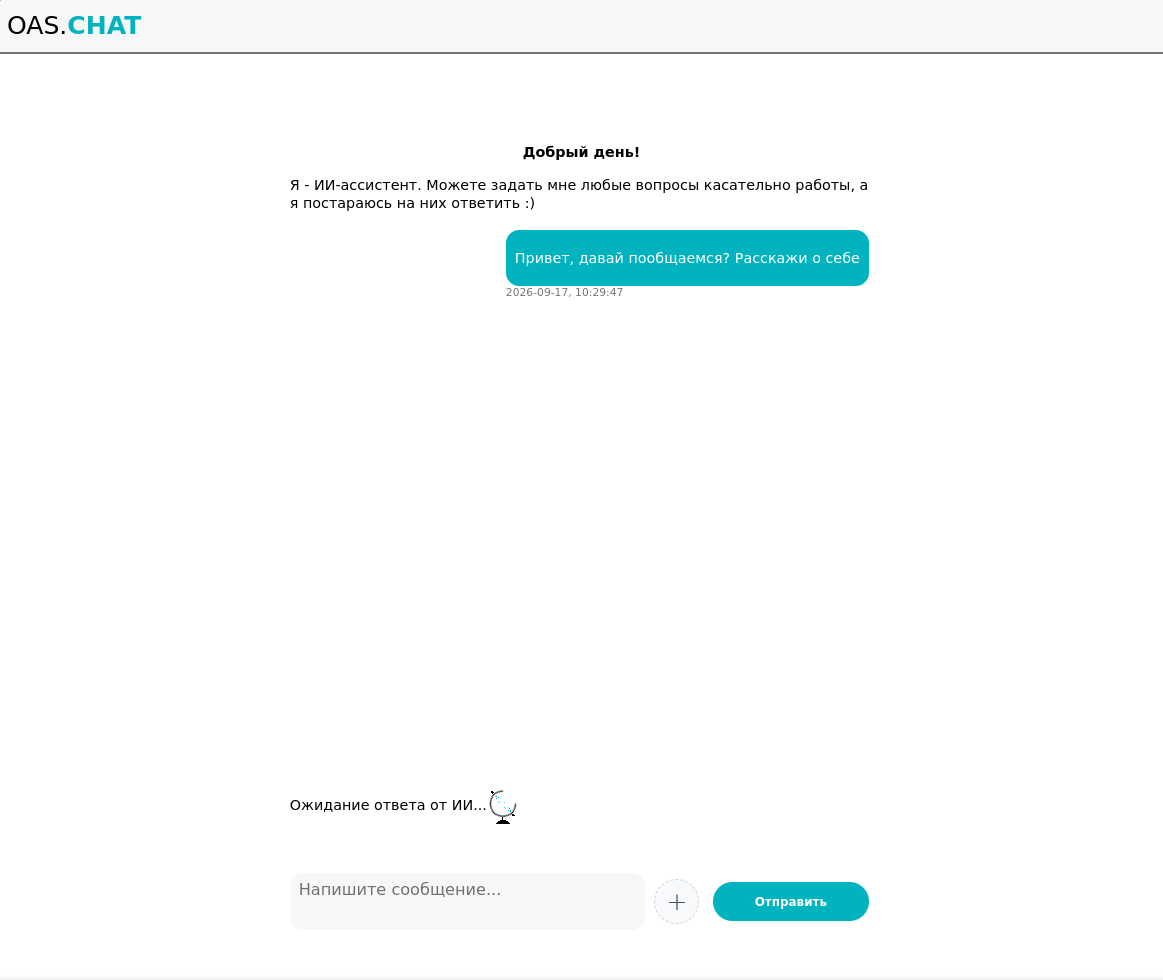
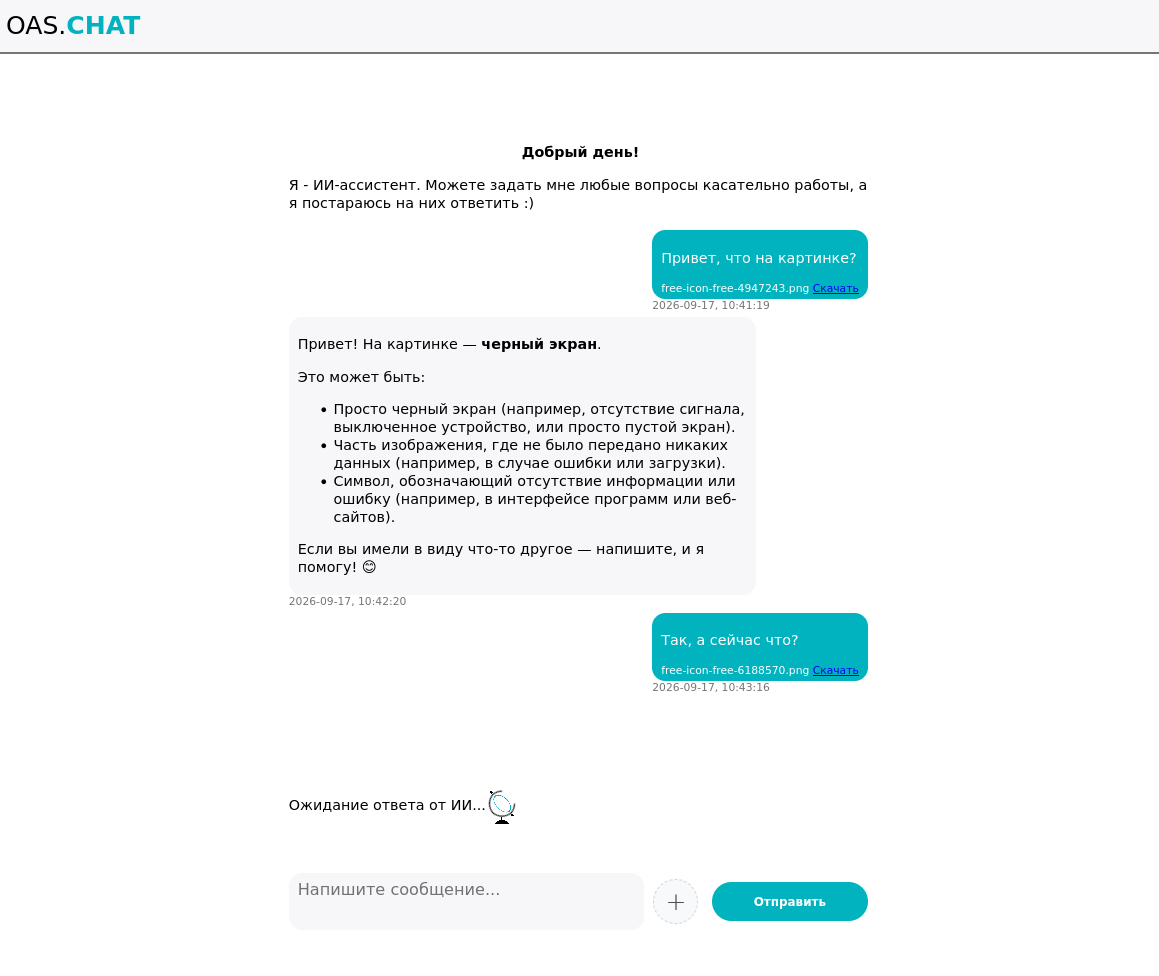
обновил readme.md

diff --git a/README.md b/README.md
@@ -1,3 +1,142 @@
 # PocketChat
 > Простой клиент для интеграции с ИИ
 ![alt text](image.png)
+
+# Возможности
+## Общение с AI
+
+Задавайте вопросы в привычном формате чата и получайте ответы от выбранной AI-модели.
+
+PocketChat подходит как для быстрых вопросов, так и для продолжительных разговоров, где важен контекст предыдущих сообщений.
+
+Можно использовать AI для:
+
+    поиска и объяснения информации;
+
+    написания и редактирования текстов;
+
+    мозгового штурма;
+
+    обучения и изучения новых тем;
+
+    программирования;
+
+    анализа идей;
+
+    решения повседневных задач.
+
+## Работа с изображениями
+
+Прикрепляйте изображения непосредственно к сообщению и просите AI проанализировать их.
+
+Например:
+
+    разобрать фотографию;
+
+    проанализировать скриншот;
+
+    прочитать информацию с изображения;
+
+    объяснить график или схему;
+
+    задать вопросы по содержимому изображения.
+
+## Работа с файлами
+
+Добавляйте файлы непосредственно в разговор.
+
+Файлы могут использоваться как дополнительный контекст для работы с AI, а прикреплённые материалы остаются связаны с соответствующим сообщением.
+История разговоров
+
+Пользователь сможет:
+
+    создавать новые разговоры;
+
+    возвращаться к предыдущим;
+
+    продолжать старые диалоги;
+
+    переименовывать чаты;
+
+    удалять ненужные разговоры;
+
+    хранить историю своих взаимодействий с AI.
+
+Персональный аккаунт
+
+В дальнейшем PocketChat будет поддерживать персональные аккаунты.
+
+Аккаунт позволит хранить пользовательские данные отдельно и получать доступ к своим разговорам и настройкам.
+
+## Планируется поддержка:
+
+    профиля пользователя;
+
+    сохранения истории;
+
+    персональных настроек;
+
+    настроек AI;
+
+    управления файлами;
+
+    синхронизации между устройствами.
+
+## Разные AI-модели
+
+PocketChat не ограничивается одной конкретной моделью.
+
+Проект развивается с возможностью использовать разные AI-модели в зависимости от задачи.
+
+Для быстрых вопросов можно использовать одну модель, для программирования или сложного анализа — другую, а для работы с изображениями — мультимодальную модель.
+
+## Идея проекта
+
+PocketChat создаётся не просто как интерфейс для отправки сообщений языковой модели.
+
+Идея проекта — сделать персональное пространство для работы с AI, где всё необходимое находится в одном месте:
+
+    чаты;
+
+    файлы;
+
+    изображения;
+
+    AI-модели;
+
+    профиль пользователя;
+
+    настройки;
+
+    история разговоров.
+
+Вместо отдельных разовых запросов пользователь получает пространство, в котором можно начать разговор, сохранить его и вернуться к нему позже.
+Развитие проекта
+
+PocketChat находится в активной разработке.
+
+Проект постепенно развивается от простого AI-чата в полноценное персональное пространство для работы с искусственным интеллектом.
+
+В дальнейшем планируется развитие следующих направлений:
+
+    сохранение истории чатов;
+
+    пользовательские аккаунты;
+
+    синхронизация между устройствами;
+
+    расширенная работа с файлами;
+
+    поддержка различных AI-моделей;
+
+    расширенная работа с изображениями;
+
+    персональные настройки;
+
+    персонализация интерфейса;
+
+    поиск по истории разговоров;
+
+    организация чатов;
+
+    дополнительные AI-инструменты.
